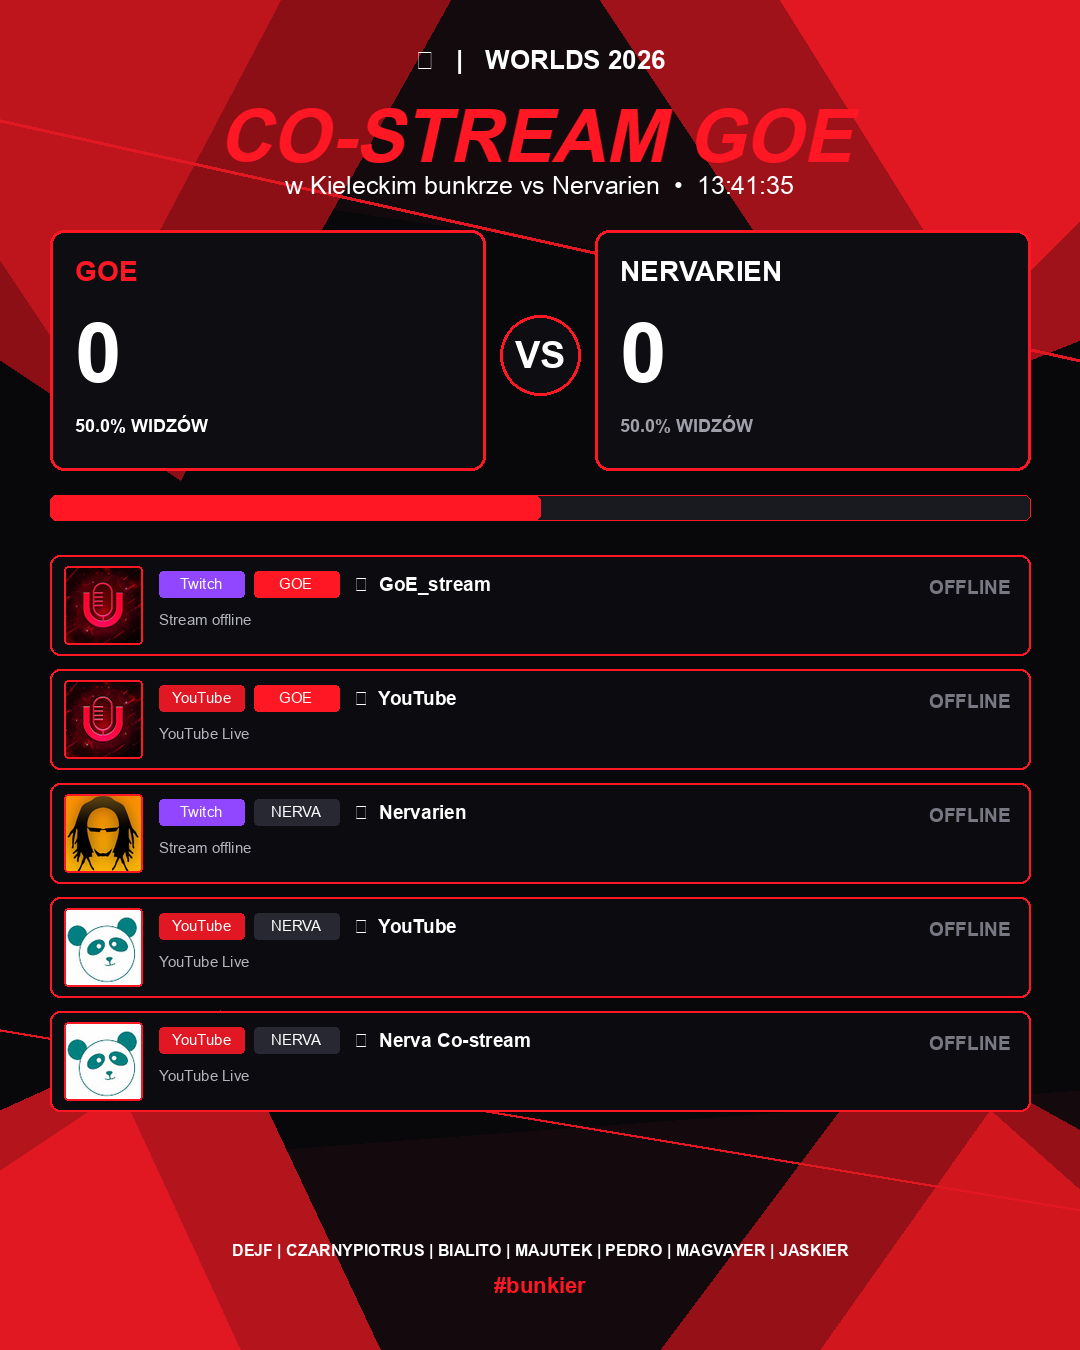
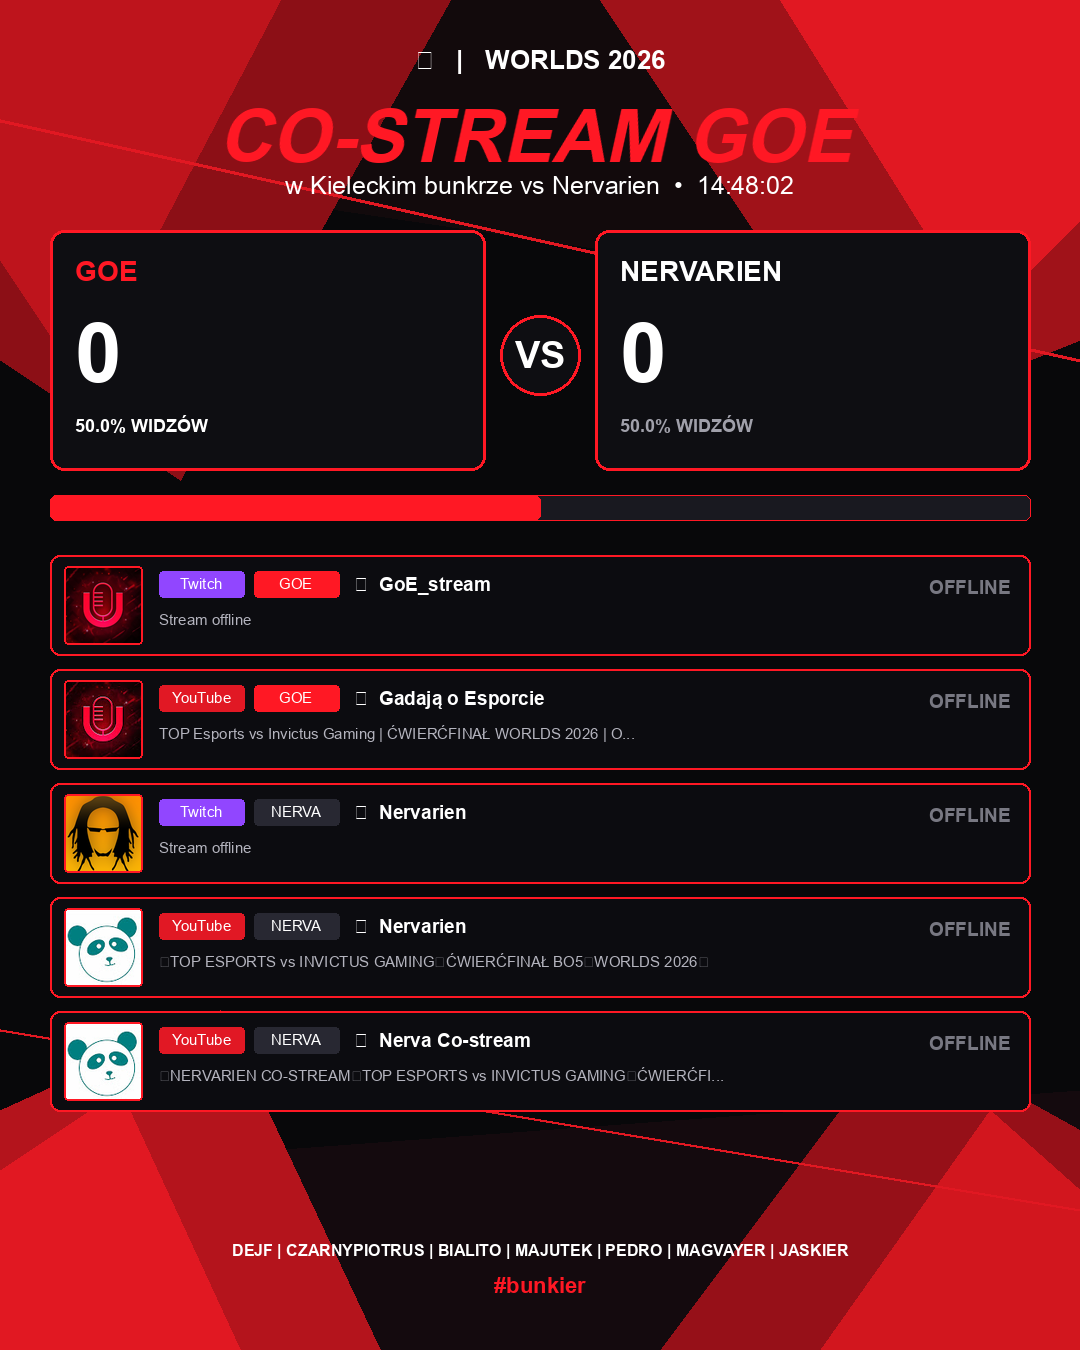
Remove sponsor section from footer per user request

diff --git a/index.html b/index.html
@@ -1046,70 +1046,7 @@
             color: var(--text-muted);
             text-transform: uppercase;
             letter-spacing: 1px;
-            margin-bottom: 22px;
-        }
-
-        /* OFFICIAL SPONSOR PLACEMENTS */
-        .footer-sponsors {
-            display: flex;
-            align-items: center;
-            justify-content: center;
-            gap: 28px;
-            flex-wrap: wrap;
-            padding-top: 14px;
-            border-top: 1px solid rgba(255, 255, 255, 0.06);
-        }
-
-        .sponsor-item {
-            display: flex;
-            align-items: center;
-            gap: 8px;
-            opacity: 0.85;
-            transition: opacity 0.2s;
-        }
-        .sponsor-item:hover { opacity: 1; }
-
-        .sponsor-papito {
-            font-family: var(--font-heading);
-            font-style: italic;
-            font-weight: 900;
-            color: #ffffff;
-            font-size: 18px;
-            letter-spacing: 1px;
-            line-height: 1;
-            display: flex;
-            flex-direction: column;
-            align-items: center;
-        }
-        .sponsor-papito .papito-sub {
-            font-size: 8px;
-            letter-spacing: 3px;
-            color: var(--text-muted);
-            margin-top: 1px;
-            font-weight: 800;
-        }
-
-        .sponsor-divider {
-            width: 1px;
-            height: 24px;
-            background: rgba(255, 255, 255, 0.15);
-        }
-
-        .sponsor-redragon {
-            font-family: var(--font-heading);
-            font-weight: 900;
-            color: #ffffff;
-            font-size: 17px;
-            letter-spacing: 1.5px;
-            display: flex;
-            align-items: center;
-            gap: 8px;
-        }
-
-        .redragon-dragon-icon {
-            width: 22px;
-            height: 22px;
-            color: var(--goe-red);
+            margin-bottom: 0;
         }
 
         /* TOAST NOTIFICATION */
@@ -1472,21 +1409,6 @@
                 <div class="footer-bunkier-badge">#BUNKIER</div>
             </div>
             <div class="footer-system-note">Oficjalny system statystyk widowni Co-stream GoE • Worlds 2026</div>
-            
-            <!-- OFFICIAL SPONSOR PLACEMENTS (PAPITO ENERGY & REDRAGON) -->
-            <div class="footer-sponsors">
-                <div class="sponsor-item sponsor-papito">
-                    <span>PAPITO</span>
-                    <span class="papito-sub">ENERGY</span>
-                </div>
-                <div class="sponsor-divider"></div>
-                <div class="sponsor-item sponsor-redragon">
-                    <svg class="redragon-dragon-icon" viewBox="0 0 24 24" fill="currentColor">
-                        <path d="M12 2C6.48 2 2 6.48 2 12s4.48 10 10 10 10-4.48 10-10S17.52 2 12 2zm1 17.93c-3.95-.49-7-3.85-7-7.93 0-.62.08-1.21.21-1.79L9 15v1c0 1.1.9 2 2 2v1.93zm6.9-2.54c-.26-.81-1-1.39-1.9-1.39h-1v-3c0-.55-.45-1-1-1H8v-2h2c.55 0 1-.45 1-1V7h2c1.1 0 2-.9 2-2v-.41c2.93 1.19 5 4.06 5 7.41 0 2.08-.8 3.97-2.1 5.39z"/>
-                    </svg>
-                    <span>REDRAGON</span>
-                </div>
-            </div>
         </footer>
     </div>
 
